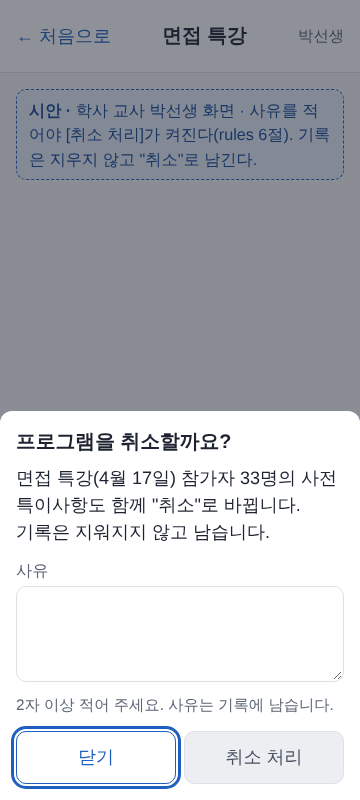
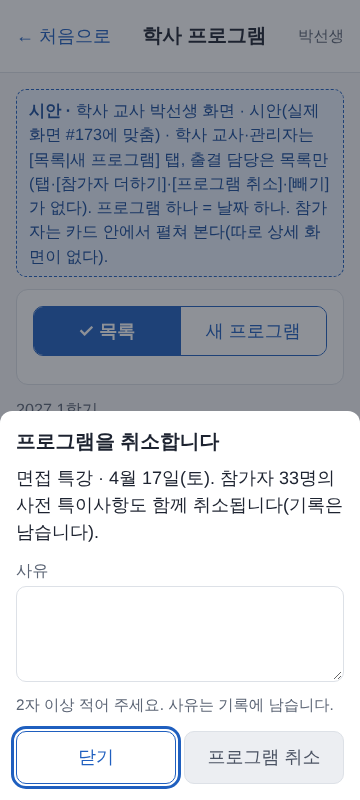
C28 시안을 실제 화면에 맞춤(목록·새 프로그램 탭, 카드 안 참가자) (#181)
Claude-Session: https://claude.ai/code/session_01By8Yaa8urwsSoHVw3FXUZa

diff --git a/design/preview/stage4-screens.js b/design/preview/stage4-screens.js
@@ -114,72 +114,87 @@ def('docs-type-edit', 'C27 서류', '서류 종류 추가·고치기 시트', { 
     actions: [{ text: '닫기', kind: 'secondary', onclick: function () {} }, { text: '추가', onclick: function () {} }], onclose: function () {} }).open();
 });
 
-/* ═════════ C28 프로그램 + 참가자 ═════════ */
+/* ═════════ C28 프로그램 + 참가자 (코딩B가 만든 실제 화면 #173에 맞춘 모양: [목록|새 프로그램] 탭, 카드 안 펼치기, 아래 바는 입력에서만) ═════════ */
 var SAT_BLOCKS = [{ seq: 1, start: '09:00', end: '12:00', label: '①' }, { seq: 2, start: '14:00', end: '15:30', label: '②' }, { seq: 3, start: '15:30', end: '17:00', label: '③' }];
 
-function progCard(name, date, blocks, n, state, kind, note) {
-  var c = card('', [row([el('b', { text: name }), UI.statusPill(kind, state)], 'justify-content:space-between;margin-bottom:4px'),
-    el('div', { class: 'muted', style: 'word-break:keep-all', text: date + ' · ' + blocks }), el('div', { class: 'muted', text: '참가자 ' + n + '명' + (note ? ' · ' + note : '') }),
-    row([el('button', { type: 'button', class: 'btn secondary row-btn', text: '열기' })], 'margin-top:8px')]);
+function programTabs(on) {
+  return card('', [UI.segmented({ options: [{ value: 'list', label: '목록' }, { value: 'entry', label: '새 프로그램' }], value: on, onchange: function () {} })]);
+}
+/** 학생 여러 명 고르기(입력과 [참가자 더하기] 시트가 같이 쓴다): 학년·반으로 한꺼번에 + 검색·체크로 한 명씩, 고른 수를 늘 보인다 */
+function studentMultiMock(count) {
+  var box = el('div');
+  box.appendChild(el('div', { class: 'chips', role: 'group', 'aria-label': '학년' }, ['1학년', '2학년', '3학년'].map(function (t, i) { return el('button', { type: 'button', class: 'chip' + (i === 1 ? ' on' : ''), text: t }); })));
+  box.appendChild(el('div', { class: 'chips', style: 'margin-top:8px', role: 'group', 'aria-label': '반' }, ['1반', '2반', '3반', '4반', '5반', '6반'].map(function (t, i) { return el('button', { type: 'button', class: 'chip' + (i === 2 ? ' on' : ''), text: t }); })));
+  box.appendChild(checkRow('기숙사생만', false));
+  box.appendChild(el('div', { class: 'muted', style: 'margin:6px 0;word-break:keep-all', text: '2학년 3반 학사생 9명 · 이미 담은 학생 2명은 빼고 7명이 새로 담깁니다.' }));
+  box.appendChild(el('button', { type: 'button', class: 'btn', text: '이 반 담기' }));
+  box.appendChild(UI.field('학생 찾기', el('input', { type: 'text', placeholder: '이름·학번으로 찾기' })));
+  box.appendChild(el('div', { class: 'muted', style: 'margin:4px 0', text: '고른 학생 ' + count + '명' }));
+  var list = el('div', { style: 'max-height:200px;overflow:auto;border:1px solid var(--line);border-radius:8px;padding:4px 8px' });
+  [['2-3 1번', '박다솜'], ['2-3 2번', '이나래'], ['2-3 4번', '최하늘'], ['2-3 5번', '정하나']].forEach(function (r) { list.appendChild(checkRow(r[0] + ' ' + r[1], true)); });
+  box.appendChild(list);
+  box.appendChild(el('button', { type: 'button', class: 'btn secondary row-btn', style: 'margin-top:4px', text: '모두 비우기' }));
+  return box;
+}
+function progCard(name, dateBlocks, n, extra) {
+  var c = card('', []);
+  c.appendChild(el('div', { style: 'display:flex;gap:8px;align-items:center;justify-content:space-between;flex-wrap:wrap' }, [el('h2', { style: 'margin:0', text: name }), extra && extra.canceled ? UI.statusPill('canceled', '취소됨') : null]));
+  c.appendChild(el('div', { class: 'muted', style: 'word-break:keep-all', text: dateBlocks + (extra && extra.canceled ? '' : ' · 참가자 ' + n + '명 · 사전 특이사항 ' + n + '건') }));
+  if (extra && extra.open) {
+    c.appendChild(el('button', { type: 'button', class: 'btn secondary row-btn', style: 'margin-top:8px', text: '참가자 접기' }));
+    var ul = el('ul', { class: 'list', style: 'margin-top:8px' });
+    [['1-3 5번', '김가온'], ['1-2 7번', '박도윤'], ['2-3 1번', '박다솜'], ['2-3 4번', '최하늘']].forEach(function (r) {
+      ul.appendChild(el('li', { style: 'display:flex;align-items:center;gap:8px;justify-content:space-between' }, [el('span', { style: 'flex:1 1 auto', text: r[0] + ' ' + r[1] }), el('button', { type: 'button', class: 'btn secondary row-btn', style: 'flex:0 0 auto;white-space:nowrap;margin-top:0', text: '빼기', 'aria-label': r[1] + ' 참가 빼기' })]));
+    });
+    c.appendChild(ul);
+  } else if (!(extra && extra.canceled)) c.appendChild(el('button', { type: 'button', class: 'btn secondary row-btn', style: 'margin-top:8px', text: '참가자 보기' }));
+  if (!(extra && extra.canceled)) c.appendChild(el('div', { style: 'display:flex;gap:8px;flex-wrap:wrap;margin-top:8px' }, [el('button', { type: 'button', class: 'btn secondary row-btn', style: 'margin-top:0', text: '참가자 더하기' }), el('button', { type: 'button', class: 'btn secondary row-btn', style: 'margin-top:0', text: '프로그램 취소' })]));
   return c;
 }
-def('program-list', 'C28 프로그램', '프로그램 목록 (예정·지난·취소)', {}, function (root) {
-  var m = frame(root, { title: '학사 프로그램', who: '박선생', bar: [{ text: '+ 프로그램 추가' }],
-    note: '시안 · 학사 교사·관리자가 만들고, 출결 담당은 목록만 본다. 프로그램 하나 = 날짜 하나(여러 날이면 날짜마다 하나).' });
-  m.appendChild(UI.segmented({ options: [{ value: 'up', label: '예정' }, { value: 'past', label: '지난' }, { value: 'off', label: '취소' }], value: 'up', onchange: function () {} }));
-  m.appendChild(progCard('면접 특강', '4월 17일(토)', '②③ 14:00–17:00', 33, '유효', 'confirmed', '사전 특이사항 33건'));
-  m.appendChild(progCard('체험학습', '5월 8일(토)', '하루 종일', 124, '유효', 'confirmed', '사전 특이사항 124건'));
-  m.appendChild(el('div', { class: 'muted', text: '참가자를 넣으면 그 시간의 사전 특이사항("학사 내 프로그램")이 학생마다 자동으로 생깁니다.' }));
+function programList(root, open) {
+  var m = frame(root, { title: '학사 프로그램', who: '박선생',
+    note: '시안(실제 화면 #173에 맞춤) · 학사 교사·관리자는 [목록|새 프로그램] 탭, 출결 담당은 목록만(탭·[참가자 더하기]·[프로그램 취소]·[빼기]가 없다). 프로그램 하나 = 날짜 하나. 참가자는 카드 안에서 펼쳐 본다(따로 상세 화면이 없다).' });
+  m.appendChild(programTabs('list'));
+  m.appendChild(el('div', { class: 'muted', style: 'margin-bottom:8px', text: '2027 1학기' }));
+  m.appendChild(UI.segmented({ options: [{ value: 'up', label: '예정 2' }, { value: 'past', label: '지난 1' }, { value: 'off', label: '취소 1' }], value: 'up', onchange: function () {} }));
+  m.appendChild(progCard('면접 특강', '4월 17일(토) · ②③ 14:00–17:00', 33, { open: open }));
+  m.appendChild(progCard('체험학습', '5월 8일(토) · 전체 시간', 124));
+}
+def('program-list', 'C28 프로그램', '프로그램 목록 (탭·예정/지난/취소, 카드 안 참가자 보기)', {}, function (root) { programList(root, false); });
+def('program-card-open', 'C28 프로그램', '프로그램 카드 펼침 (참가자 줄마다 빼기)', {}, function (root) { programList(root, true); });
+
+def('program-add', 'C28 프로그램', '새 프로그램 (이름·날짜·시간·참가 학생)', {}, function (root) {
+  var m = frame(root, { title: '학사 프로그램', who: '박선생', bar: [{ text: '확인하고 저장' }],
+    note: '시안(실제 화면 #173에 맞춤) · 이름·날짜·시간(블록)을 정하고 참가 학생을 학년·반 단위로 담는다. 아래 바 [확인하고 저장]은 이름·참가 학생이 있어야 켜진다. 같은 시간에 이미 특이사항이 있는 학생은 확인창에서 알려 준다.' });
+  m.appendChild(programTabs('entry'));
+  m.appendChild(card('', [UI.field('프로그램 이름', el('input', { type: 'text', value: '면접 특강', maxlength: '60' }))]));
+  m.appendChild(card('', [UI.dateField({ label: '날짜', value: '2027-04-17', shortcuts: [{ label: '오늘', value: '2027-04-12' }], onchange: function () {} }),
+    UI.field('시간', el('div', {}, [UI.blockChips({ blocks: SAT_BLOCKS, value: { all: false, seqs: [2, 3] }, onchange: function () {} })]), { hint: '프로그램이 있는 시간입니다. 그 시간의 출석부 칸에 "내부"로 나옵니다.' })]));
+  m.appendChild(card('참가 학생', [studentMultiMock(33)]));
+  m.appendChild(card('', [UI.field('메모(선택)', el('input', { type: 'text', maxlength: '200' }))]));
 });
 
-def('program-add', 'C28 프로그램', '프로그램 입력 (이름·날짜·시간·참가자)', {}, function (root) {
-  var m = frame(root, { title: '프로그램 추가', who: '박선생', bar: [{ text: '취소', kind: 'secondary' }, { text: '저장' }],
-    note: '시안 · 이름·날짜·시간(블록)을 정하고 참가자를 담는다. [저장]하면 확인창에서 몇 명에게 특이사항이 생기는지 보여 준다. 미정: 같은 시간에 이미 특이사항이 있는 학생을 어떻게 할지(확인창 참고).' });
-  m.appendChild(card('', [UI.field('프로그램 이름', el('input', { type: 'text', value: '면접 특강' }), { hint: '출석부와 특이사항에 "학사 내 프로그램"으로 보입니다.' }),
-    UI.dateField({ label: '날짜', value: '2027-04-17', onchange: function () {} })]));
-  m.appendChild(card('시간(블록)', [UI.blockChips({ blocks: SAT_BLOCKS, value: { all: false, seqs: [2, 3] }, onchange: function () {} }), el('div', { class: 'muted', text: '4월 17일(토) ②③ 14:00–17:00' })]));
-  m.appendChild(card('참가자 33명', [
-    el('div', { class: 'muted', style: 'margin-bottom:8px', text: '1학년 12명 · 2학년 14명 · 3학년 7명' }),
-    row([el('button', { type: 'button', class: 'btn', text: '학년·반으로 담기' }), el('button', { type: 'button', class: 'btn secondary', text: '이름으로 찾기' })], 'margin-bottom:8px'),
-    el('div', { class: 'muted', text: '담은 학생을 빼려면 저장 뒤 프로그램을 열어 [빼기]를 누릅니다.' })]));
-  m.appendChild(card('', [UI.field('메모 (선택)', el('textarea', { rows: '3', style: 'min-height:96px', placeholder: '장소·준비물 등' }))]));
+def('program-add-more', 'C28 프로그램', '참가자 더하기 시트 (이미 담은 학생은 건너뜀)', { sheet: true }, function (root) {
+  programList(root, false);
+  UI.bottomSheet({ title: '참가자 더하기', content: studentMultiMock(7), actions: [{ text: '돌아가기', kind: 'secondary', onclick: function () {} }, { text: '더하기', onclick: function () {} }], onclose: function () {} }).open();
 });
 
-def('program-pick', 'C28 프로그램', '참가자 담기 시트 (학년·반으로 한꺼번에)', { sheet: true }, function (root) {
-  var m = frame(root, { title: '프로그램 추가', who: '박선생', bar: [{ text: '취소', kind: 'secondary' }, { text: '저장' }], note: '시안 · [학년·반으로 담기]를 누르면 열린다. 체험학습처럼 100명이 넘어도 반 단위로 담는다.' });
-  m.appendChild(card('참가자 33명', [el('div', { class: 'muted', text: '1학년 12명 · 2학년 14명 · 3학년 7명' })]));
-  var klass = el('div', { class: 'chips' }, ['1반', '2반', '3반', '4반', '5반', '6반'].map(function (t, i) { return el('button', { type: 'button', class: 'chip' + (i === 2 ? ' on' : ''), text: t }); }));
-  var sum = el('div', { class: 'notice info', text: '2학년 3반 학사생 9명을 담습니다. 이미 담은 학생 2명은 빼고 7명이 새로 담깁니다.' });
-  UI.bottomSheet({ title: '참가자 담기', content: el('div', {}, [
-    UI.segmented({ options: [{ value: '1', label: '1학년' }, { value: '2', label: '2학년' }, { value: '3', label: '3학년' }], value: '2', onchange: function () {} }), klass,
-    checkRow('기숙사생만', false), sum]),
-    actions: [{ text: '닫기', kind: 'secondary', onclick: function () {} }, { text: '7명 담기', onclick: function () {} }], onclose: function () {} }).open();
+def('program-confirm', 'C28 프로그램', '프로그램 저장 확인 (겹치는 특이사항 안내)', { sheet: true }, function (root) {
+  var m = frame(root, { title: '학사 프로그램', who: '박선생', bar: [{ text: '확인하고 저장' }], note: '시안 · [확인하고 저장]을 누르면 확인창(결정 75②). 같은 시간에 다른 특이사항이 있는 학생은 그대로 두고 프로그램 특이사항을 따로 만든다(경고만, 막지 않음).' });
+  m.appendChild(programTabs('entry'));
+  UI.confirmSheet({ title: '프로그램을 저장합니다', lead: '면접 특강',
+    lines: ['4월 17일(토) · 14:00-15:30;15:30-17:00', '참가 학생 33명에게 사전 특이사항(학사 내 프로그램)이 확정으로 만들어집니다.', '2명은 같은 시간에 다른 특이사항이 있습니다. 그대로 두고 프로그램 특이사항을 따로 만듭니다.'],
+    confirmText: '저장', onconfirm: function () {} });
 });
 
-def('program-confirm', 'C28 프로그램', '프로그램 저장 확인 (특이사항이 몇 건 생기는지)', { sheet: true }, function (root) {
-  var m = frame(root, { title: '프로그램 추가', who: '박선생', bar: [{ text: '취소', kind: 'secondary' }, { text: '저장' }], note: '시안 · 저장 전 확인. 미정: 같은 시간에 이미 특이사항이 있는 학생(여기서는 제안값 "그대로 두고 프로그램 특이사항을 따로 만듦")을 어떻게 처리할지.' });
-  m.appendChild(card('프로그램', [el('b', { text: '면접 특강' }), el('div', { class: 'muted', text: '4월 17일(토) ②③ 14:00–17:00 · 참가자 33명' })]));
-  UI.confirmSheet({ title: '프로그램을 저장할까요?', lead: '4월 17일(토) 14:00–17:00 · 면접 특강',
-    lines: ['참가자 33명에게 사전 특이사항("학사 내 프로그램")이 만들어집니다.', '그 시간에 이미 특이사항이 있는 학생 2명: 그대로 두고 프로그램 특이사항을 따로 만듭니다.', '출석부의 그 시간 칸에는 \'내부\'(학사 내 프로그램)로 표시됩니다.'],
-    confirmText: '프로그램 저장', onconfirm: function () {} });
-});
-
-def('program-detail', 'C28 프로그램', '프로그램 열기 (참가자 목록, 빼기·프로그램 취소)', {}, function (root) {
-  var m = frame(root, { title: '면접 특강', who: '박선생', bar: [{ text: '프로그램 취소', kind: 'danger' }],
-    note: '시안 · 참가자를 빼면 그 학생의 특이사항만 취소(기록은 남음). 프로그램 취소는 참가자 전체의 특이사항도 함께 취소한다(같은 저장 안에서).' });
-  m.appendChild(card('', [row([el('b', { text: '면접 특강' }), UI.statusPill('confirmed', '유효')], 'justify-content:space-between'),
-    el('div', { class: 'muted', text: '4월 17일(토) ②③ 14:00–17:00' }), el('div', { class: 'muted', text: '참가자 33명 · 사전 특이사항 33건(확정)' })]));
-  m.appendChild(studentPick('참가자 찾기', ''));
-  var ul = el('ul', { class: 'list' });
-  [['1', '김가온'], ['1', '박도윤'], ['2', '이나래'], ['2', '최하늘'], ['3', '박다솜']].forEach(function (s) {
-    ul.appendChild(el('li', { style: 'align-items:center' }, [el('div', { style: 'word-break:keep-all' }, [el('b', { text: lab(s[0], s[1]) }), el('div', { class: 'muted', text: '특이사항 확정' })]), el('button', { type: 'button', class: 'btn secondary row-btn', text: '빼기' })]));
-  });
-  m.appendChild(card('참가자 (33명 중 5명)', [ul, link('더 보기(28명)', 'secondary', 'margin-top:8px')]));
+def('program-remove', 'C28 프로그램', '참가에서 빼기 확인 (사유 입력)', { sheet: true }, function (root) {
+  programList(root, true);
+  UI.confirmWithReason({ title: '참가에서 뺍니다', message: '김가온 학생을 "면접 특강"에서 뺍니다. 그 학생의 사전 특이사항도 취소됩니다.', reasonLabel: '사유', confirmText: '빼기', onconfirm: function () {} });
 });
 
 def('program-cancel', 'C28 프로그램', '프로그램 취소 확인 (사유 입력, 특이사항도 함께 취소)', { sheet: true }, function (root) {
-  frame(root, { title: '면접 특강', who: '박선생', bar: [{ text: '프로그램 취소', kind: 'danger' }], note: '시안 · 사유를 적어야 [취소 처리]가 켜진다(rules 6절). 기록은 지우지 않고 "취소"로 남긴다.' });
-  UI.confirmWithReason({ title: '프로그램을 취소할까요?', message: '면접 특강(4월 17일) 참가자 33명의 사전 특이사항도 함께 "취소"로 바뀝니다. 기록은 지워지지 않고 남습니다.', reasonLabel: '사유', confirmText: '취소 처리', danger: true, onconfirm: function () {} });
+  programList(root, false);
+  UI.confirmWithReason({ title: '프로그램을 취소합니다', message: '면접 특강 · 4월 17일(토). 참가자 33명의 사전 특이사항도 함께 취소됩니다(기록은 남습니다).', reasonLabel: '사유', confirmText: '프로그램 취소', danger: true, onconfirm: function () {} });
 });
 
 /* ═════════ 실행 ═════════ */

diff --git a/tests/design/docs.test.js b/tests/design/docs.test.js
@@ -157,7 +157,7 @@ test('D12 4단계 시안(stage4-screens.js)의 화면 이름이 모두 screens.m
     assert.ok(sec.indexOf('`' + id + '`') >= 0, '5-4 절에 `' + id + '` 가 없다');
     assert.ok(fs.existsSync(path.join(__dirname, '..', '..', 'docs', 'design', 'stage4-photos', id + '.png')), id + ' 사진이 없다');
   });
-  ['`doc.edit`', '`doc.view`', '`doc.types`', '`program.edit`', '`program.view`', '삭제 버튼은 없다', '미정', '행이 없으면 미제출', '함께 \\"취소\\"로 바뀝니다'].forEach((t) => assert.ok(sec.indexOf(t) >= 0 || doc.indexOf(t) >= 0, t));
+  ['`doc.edit`', '`doc.view`', '`doc.types`', '`program.edit`', '`program.view`', '삭제 버튼은 없다', '미정', '행이 없으면 미제출', '함께 취소됩니다', '그대로 두고 프로그램 특이사항을 따로 만듭니다'].forEach((t) => assert.ok(sec.indexOf(t) >= 0 || doc.indexOf(t) >= 0, t));
 });
 
 test('2단계 선생님 확인 체크리스트: 단계 번호(A1~E4)가 겹치지 않고 모든 줄이 7칸(번호·누가·누르는 것·통과 모습·사진·결과)이며, print-check 9·10절 번호(44~66)가 이어진다', () => {

diff --git a/docs/design/screens.md b/docs/design/screens.md
@@ -485,11 +485,12 @@ D12 시안(`design/preview/stage4-screens.js`, 실행 `node design/preview/stage
 | `docs-summary` | 서류 진행(서류별·담당교사별 숫자) | 관리자 |
 | `docs-types` | 서류 종류 관리(추가·이름·순서·취소) | 관리자 |
 | `docs-type-edit` | 서류 종류 추가·고치기 시트 | 관리자 |
-| `program-list` | 프로그램 목록(예정·지난·취소) | 학사 교사·관리자(출결 담당은 보기) |
-| `program-add` | 프로그램 입력(이름·날짜·시간·참가자) | 학사 교사·관리자 |
-| `program-pick` | 참가자 담기 시트(학년·반으로 한꺼번에) | 학사 교사·관리자 |
-| `program-confirm` | 프로그램 저장 확인(특이사항이 몇 건 생기는지) | 학사 교사·관리자 |
-| `program-detail` | 프로그램 열기(참가자 목록, 빼기, 프로그램 취소) | 학사 교사·관리자 |
+| `program-list` | [목록] 탭: 예정·지난·취소, 카드 | 학사 교사·관리자(출결 담당은 보기) |
+| `program-card-open` | 카드 안에서 참가자 펼침(줄마다 [빼기]) | 학사 교사·관리자 |
+| `program-add` | [새 프로그램] 탭(이름·날짜·시간·참가 학생) | 학사 교사·관리자 |
+| `program-add-more` | [참가자 더하기] 시트(이미 담은 학생은 건너뜀) | 학사 교사·관리자 |
+| `program-confirm` | [확인하고 저장] 확인창(특이사항 건수·겹침 안내) | 학사 교사·관리자 |
+| `program-remove` | 참가에서 빼기 확인(사유 입력) | 학사 교사·관리자 |
 | `program-cancel` | 프로그램 취소 확인(사유 입력) | 학사 교사·관리자 |
 
 ### C27-1. 학사 교사: 서류 체크
@@ -519,29 +520,33 @@ D12 시안(`design/preview/stage4-screens.js`, 실행 `node design/preview/stage
 - **진행**(`docs-summary`): 학사생 전체 기준 "서류별 제출·미제출·해당없음" 표와 "담당교사별 미제출 건수" 표(독촉할 곳). 학생 이름은 없고 숫자만이다. 합계 줄은 굵은 글씨 + 회색 바탕, 표는 상자 안에서만 옆으로 민다.
 - **서류 종류**(`docs-types`, `docs-type-edit`): 서류 종류 목록(순서 ▲▼, [고치기]), [+ 서류 종류 추가](이름·설명). 이름은 유효한 것끼리 겹칠 수 없다. **삭제 버튼은 없다** — [고치기] 시트에서 취소하면 "취소된 종류"로 내려가고(`취소됨` 알약) 이미 받은 제출 기록은 남는다.
 
-### C28-1. 프로그램 만들기와 참가자
+### C28-1. 학사 프로그램 (실제 화면 #173에 맞춘 시안)
 
 ```
-학사 프로그램                       박선생
-[ 예정 | 지난 | 취소 ]
-┌ 면접 특강        (유효) ┐
-│ 4월 17일(토) · ②③ 14:00–17:00 │
-│ 참가자 33명 · 사전 특이사항 33건  │
-│ [ 열기 ]                      │
-└────────────────────────────┘
-[ + 프로그램 추가 ]               ← 아래 바
+학사 프로그램                          박선생
+[ 목록 | 새 프로그램 ]                        ← UI.segmented 탭(학사 교사·관리자만, 출결 담당은 목록만)
+2027 1학기
+[ 예정 2 | 지난 1 | 취소 1 ]
+┌ 면접 특강 ─────────────────┐
+│ 4월 17일(토) · ②③ 14:00–17:00 · 참가자 33명 · 사전 특이사항 33건 │
+│ [ 참가자 보기 ]   → 누르면 이 카드 안에서 펼침 / [ 참가자 접기 ]  │
+│   1-3 5번 김가온                [ 빼기 ]                        │
+│ [ 참가자 더하기 ] [ 프로그램 취소 ]                              │
+└──────────────────────────┘
 ```
 
-- **프로그램 하나 = 날짜 하나**(여러 날이면 날짜마다 하나, s4-0 설계). 목록 카드에 이름·날짜·시간·참가자 수·특이사항 건수.
-- **입력**(`program-add`): 이름, 날짜(`UI.dateField`), 시간 = 그날 블록 칩(`UI.blockChips`, 사전 특이사항과 같은 표기), 참가자, 메모(선택). 참가자는 **학년·반 단위로 담는다**(`program-pick`): 학년(`UI.segmented`) → 반 칩 → "기숙사생만" 체크 → "2학년 3반 학사생 9명을 담습니다. 이미 담은 학생 2명은 빼고 7명이 새로 담깁니다." → [7명 담기]. 체험학습처럼 100명이 넘어도 반 단위로 담을 수 있고, 한 명씩은 [이름으로 찾기](`UI.studentPicker`).
-- **저장 확인**(`program-confirm`, `UI.confirmSheet`): lead "4월 17일(토) 14:00–17:00 · 면접 특강", 줄 "참가자 33명에게 사전 특이사항("학사 내 프로그램")이 만들어집니다.", 같은 시간에 이미 특이사항이 있는 학생 수와 처리, 출석부 표시('내부', `sheet-model.md`의 학사 내 프로그램). 생성되는 특이사항은 **확정** 상태로 만들어진다(`program.edit`).
-- **프로그램 열기**(`program-detail`): 이름·날짜·시간·"참가자 33명 · 사전 특이사항 33건(확정)", 참가자 찾기, 참가자 줄마다 [빼기](그 학생의 특이사항만 `취소`, 기록은 남음). 아래 바 [프로그램 취소](위험 색).
-- **프로그램 취소**(`program-cancel`, `UI.confirmWithReason`): 사유를 꼭 받고, "참가자 33명의 사전 특이사항도 함께 \"취소\"로 바뀝니다. 기록은 지워지지 않고 남습니다." 같은 저장 안에서 함께 취소된다(s4-0 설계). 삭제는 없다.
-- 권한: 학사 교사·관리자가 만들고 고치고 취소(`program.edit`), 출결 담당은 목록·열기만(`program.view`, 아래 바·[빼기]·[+ 프로그램 추가] 없음). 담임·학생·학부모는 이 화면이 없다(그 학생의 특이사항은 기존 특이사항 화면에 보인다).
+- **목록**(`program-list`, `program-card-open`): 탭 아래 기간 이름, 예정·지난·취소 `UI.segmented`(건수 포함), 프로그램 카드. 카드 = 이름(`h2`), "날짜 · 시간 · 참가자 N명 · 사전 특이사항 N건", 메모, [참가자 보기]. **따로 상세 화면이 없다** — 참가자는 카드 안에서 펼치고(줄 = "1-3 5번 김가온" 형식, 줄마다 [빼기]), 취소된 프로그램은 카드에 `취소됨` 알약만 있고 버튼이 없다. 끝난 기간은 보기만.
+- **새 프로그램**(`program-add`): 이름, 날짜(`UI.dateField`, 바로가기 "오늘"), 시간 = 그날 블록 칩(`UI.blockChips`, 전체가 기본), 참가 학생, 메모(선택). 그날이 자습 없는 날이면 "이 날은 자습을 운영하지 않는 날입니다. 그래도 프로그램을 넣을 수 있습니다." 한 줄. **아래 바는 [확인하고 저장] 하나**이고 이름·참가 학생이 있어야 켜진다.
+- **참가 학생 고르기**(입력과 `program-add-more` 시트가 같은 부품): 학년 칩 → 반 칩 → "기숙사생만" 체크 → "2학년 3반 학사생 9명 · 이미 담은 학생 2명은 빼고 7명이 새로 담깁니다." → [이 반 담기]. 한 명씩은 "학생 찾기"(이름·학번)와 체크 목록으로, 늘 "고른 학생 N명"을 보이고 [모두 비우기]가 있다. **이미 담은 학생은 건너뛴다**(결정: 반 단위 담기에서 중복 제외).
+- **저장 확인**(`program-confirm`, `UI.confirmSheet` "프로그램을 저장합니다"): lead = 프로그램 이름, 줄 "4월 17일(토) · 시간", "참가 학생 33명에게 사전 특이사항(학사 내 프로그램)이 확정으로 만들어집니다.", 그리고 **같은 시간에 다른 특이사항이 있는 학생이 있으면 "N명은 같은 시간에 다른 특이사항이 있습니다. 그대로 두고 프로그램 특이사항을 따로 만듭니다."**(학생 수만, 이름 없음). 입실 상태가 아닌 학생이 있으면 "N명은 이 날 학사 입실 상태가 아닙니다."도. 경고는 막지 않고 알리는 것이다. [참가자 더하기]에서도 경고가 있으면 "확인해 주세요" 확인창 → [그래도 더하기].
+- **참가에서 빼기**(`program-remove`, `UI.confirmWithReason` "참가에서 뺍니다"): 사유를 받고, 그 학생의 사전 특이사항만 `취소`(기록은 남음).
+- **프로그램 취소**(`program-cancel`, `UI.confirmWithReason` "프로그램을 취소합니다"): 사유를 받고 "참가자 33명의 사전 특이사항도 함께 취소됩니다(기록은 남습니다)." 끝나면 "취소했습니다. 특이사항 N건도 함께 취소되었습니다."
+- **프로그램 날짜·시간은 고치지 않는다**(결정): 잘못 만들었으면 취소하고 새로 만든다. 고치기 화면은 없다.
+- 권한: 학사 교사·관리자가 만들고 참가자를 더하고 빼고 취소(`program.edit`), 출결 담당은 목록만(`program.view`, 탭·[참가자 더하기]·[프로그램 취소]·[빼기]가 없다). 담임·학생·학부모는 이 화면이 없다(그 학생의 특이사항은 기존 특이사항 화면에 보인다).
 
 ### 5-4 미정·가정·확인 못 한 것
 
-- **미정(C28):** ① 같은 시간에 이미 사전 특이사항이 있는 학생을 어떻게 할지(시안은 제안값 "그대로 두고 프로그램 특이사항을 따로 만듦"). ② 참가자를 반 단위로 담을 때 "이미 담은 학생은 빼기"는 제안값이다. ③ 프로그램 날짜·시간을 고칠 때 이미 만든 특이사항을 같이 고칠지(시안은 고치기 화면을 그리지 않았다).
+- **결정됨(C28, 총괄):** ① 같은 시간에 이미 특이사항이 있는 학생은 그대로 두고 프로그램 특이사항을 따로 만들며, 확인창에 "N명은 같은 시간에 다른 특이사항이 있습니다"를 보인다. ② 반 단위 담기에서 이미 담은 학생은 건너뛴다. ③ 프로그램 날짜·시간 고치기는 하지 않는다(취소하고 새로 만든다).
 - **ASSUMPTION(C27):** 체크 한 번으로 제출이 저장되는 것은 속도를 위한 제안이다. 실수로 눌러도 체크를 풀어 되돌릴 수 있고(이전·이후가 감사 기록에 남음) 별도 확인창은 두지 않았다. 확인창이 필요하면 [⋯] 시트에서만 바꾸게 한다.
 - 시안은 담당교사별 독촉 메일·알림, 학기 초 서류 일괄 체크(여러 학생을 한 번에 제출 처리), 서류 종류를 학기별로 다르게 켜고 끄기를 그리지 않았다(결정 75 범위 밖).
 - 화면 숫자는 가짜다(학사생 180명, 담당 박선생 26명, 서류 6종).
